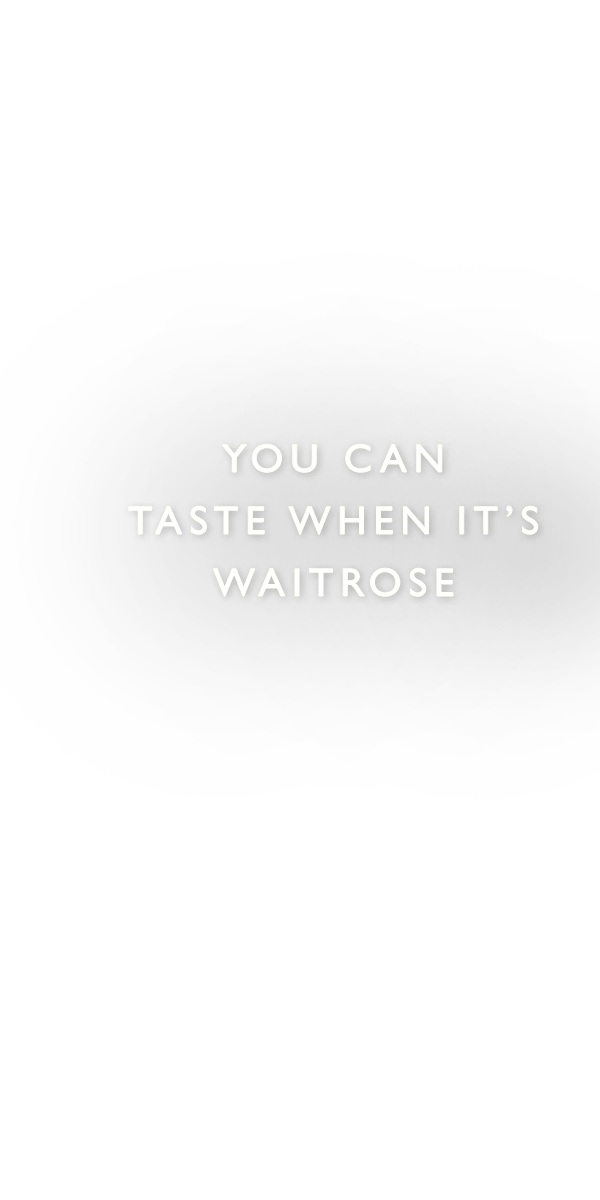
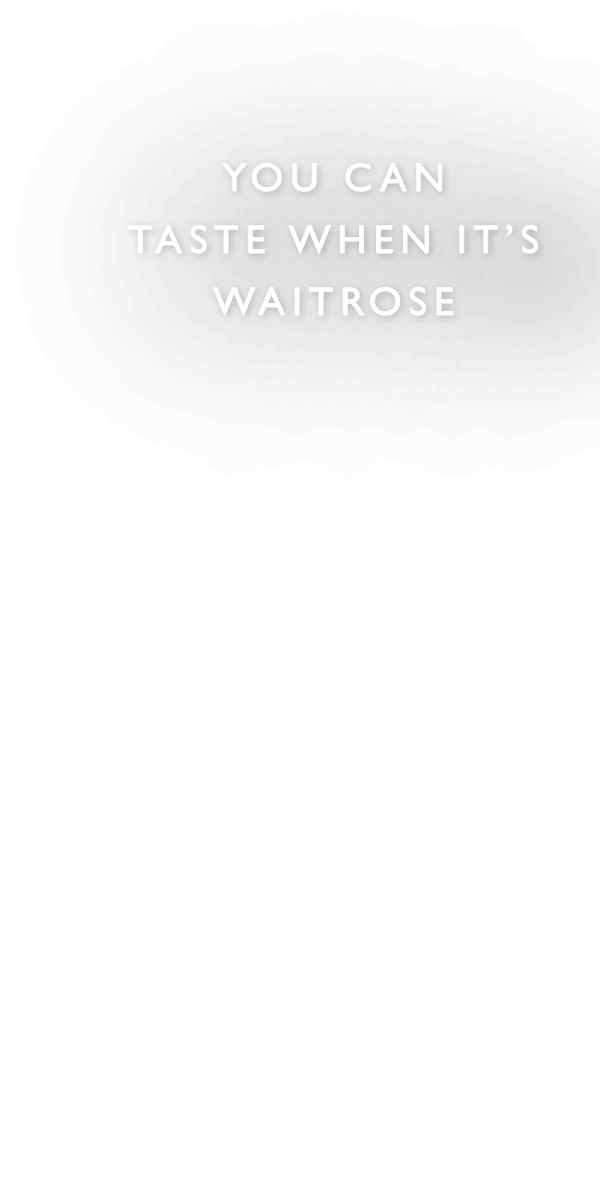
waitrose prview update

Changed region(s): [[0.24, 0.37, 1.0, 0.5242], [0.21, 0.1233, 1.0, 0.2775]]

diff --git a/clients/Waitrose/Taste_Spring/LemonTart/html5/Waitrose_TasteSpring_LemonTart_300x600/index.html b/clients/Waitrose/Taste_Spring/LemonTart/html5/Waitrose_TasteSpring_LemonTart_300x600/index.html
@@ -19,7 +19,7 @@
         #background {background-color: #e8e8e0; position:absolute; left:0px; top:0px; width:300px; height:600px;}
 
         #imageCont {position:absolute; left:33px; top:0px; width:267px; height:520px; overflow:hidden;}
-        #image1 {position:absolute; left:20px; top:0px; width:267px; height:auto; transform:scale(1.5); transform-origin:50% 50%;}
+        #image1 {position:absolute; left:-20px; top:-40px; width:267px; height:auto; transform:scale(1.5); transform-origin:50% 50%;}
 
         #copy1 {position:absolute; left:0px; top:0px; width:300px; height:600px; opacity:0;}
         #copy2 {position:absolute; left:0px; top:0px; width:300px; height:600px; opacity:0;}
@@ -120,7 +120,7 @@
             //
             tl1 = new TimelineMax({repeat:0, repeatDelay: 5.5});
             //
-            tl1.to('#image1', 10,{x:'-=20', y:'-=10', scale:1.1});
+            tl1.to('#image1', 10,{x:'+=20', y:'+=40', scale:1});
             tl1.to('#logo', 0.5,{opacity:1},'-=9');
             tl1.to('#copy1', 1,{opacity:1},'-=7');
             tl1.to('#copy1', 1,{opacity:0},'-=3');
